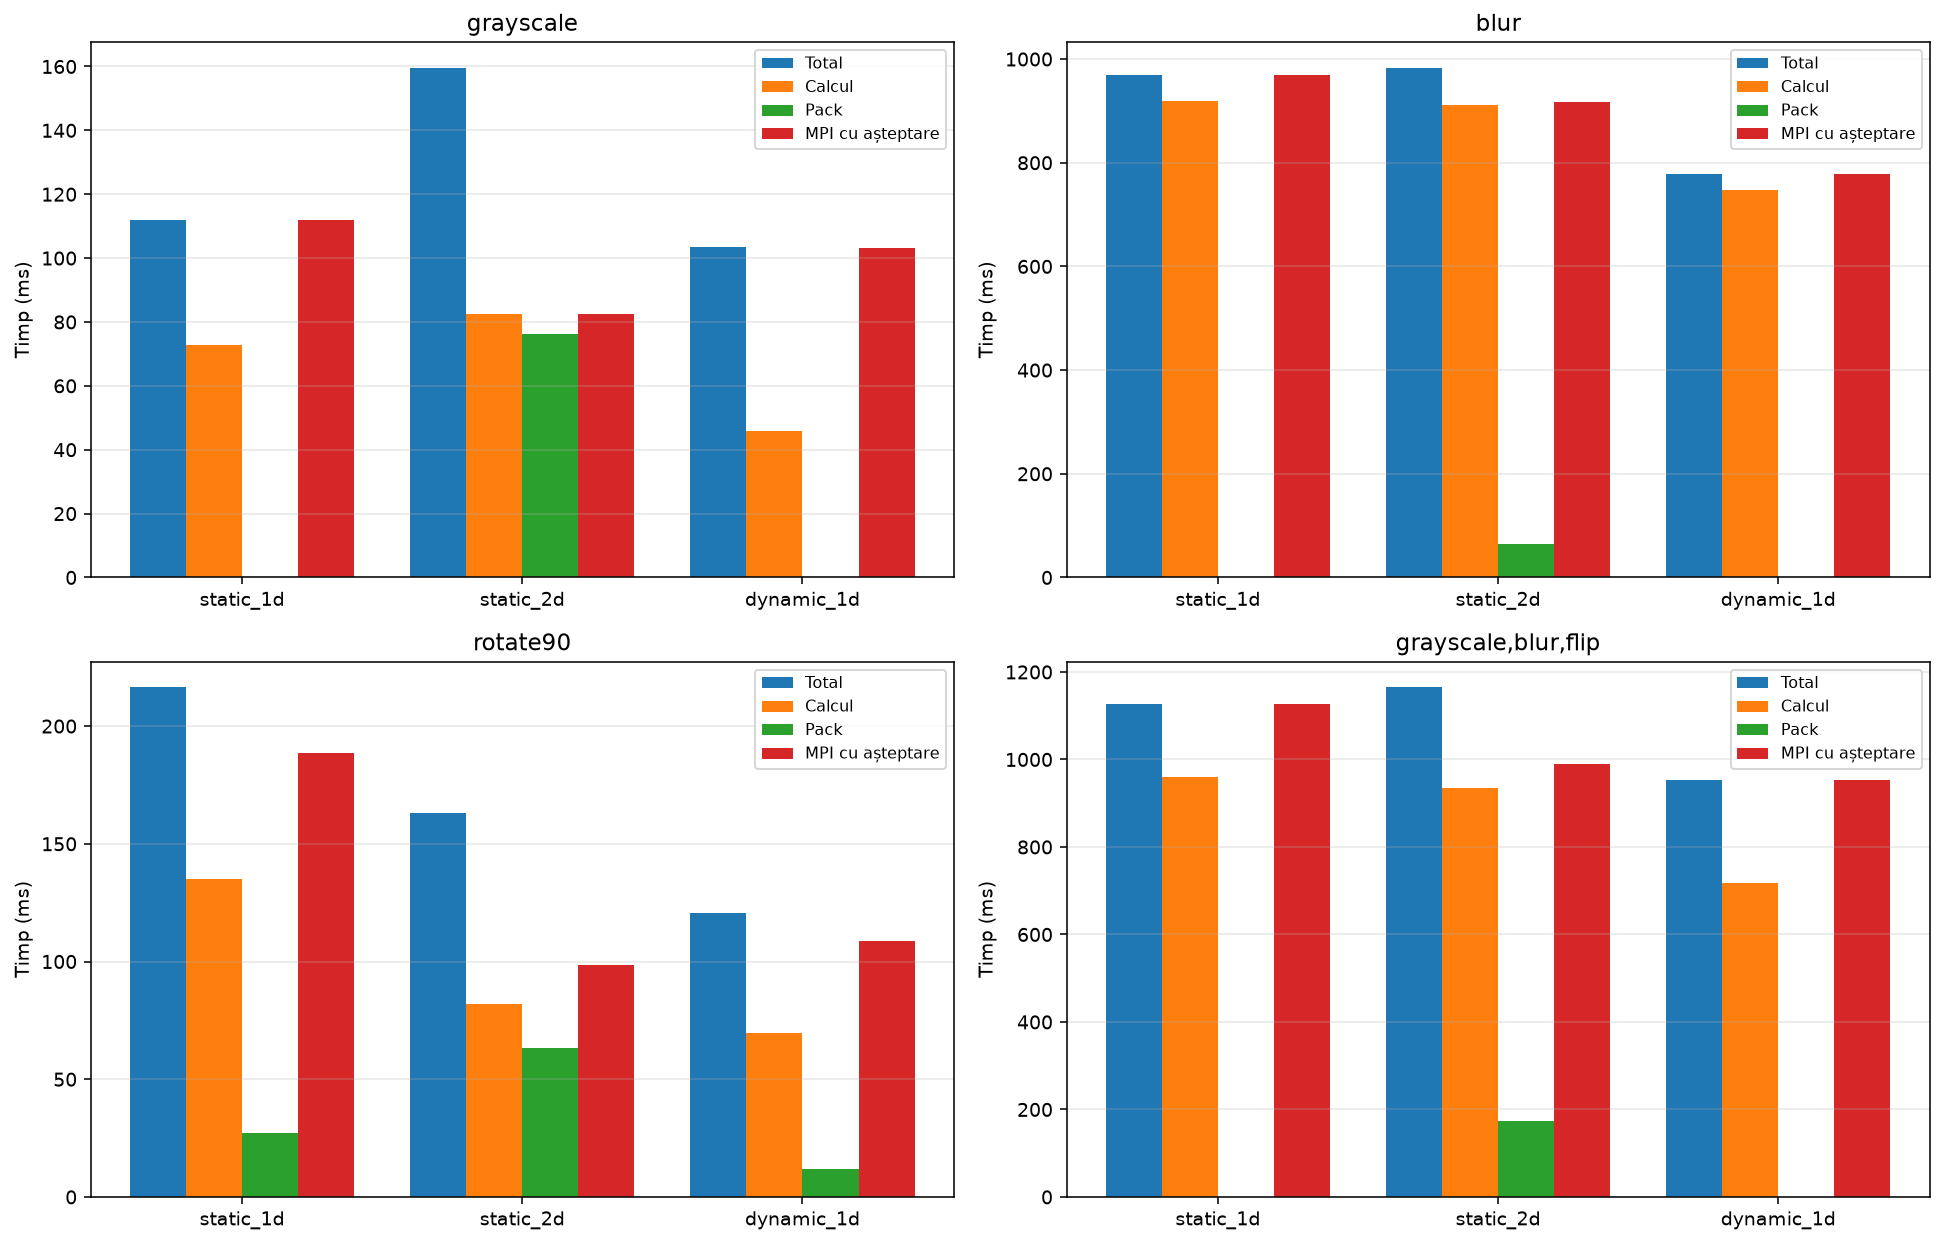
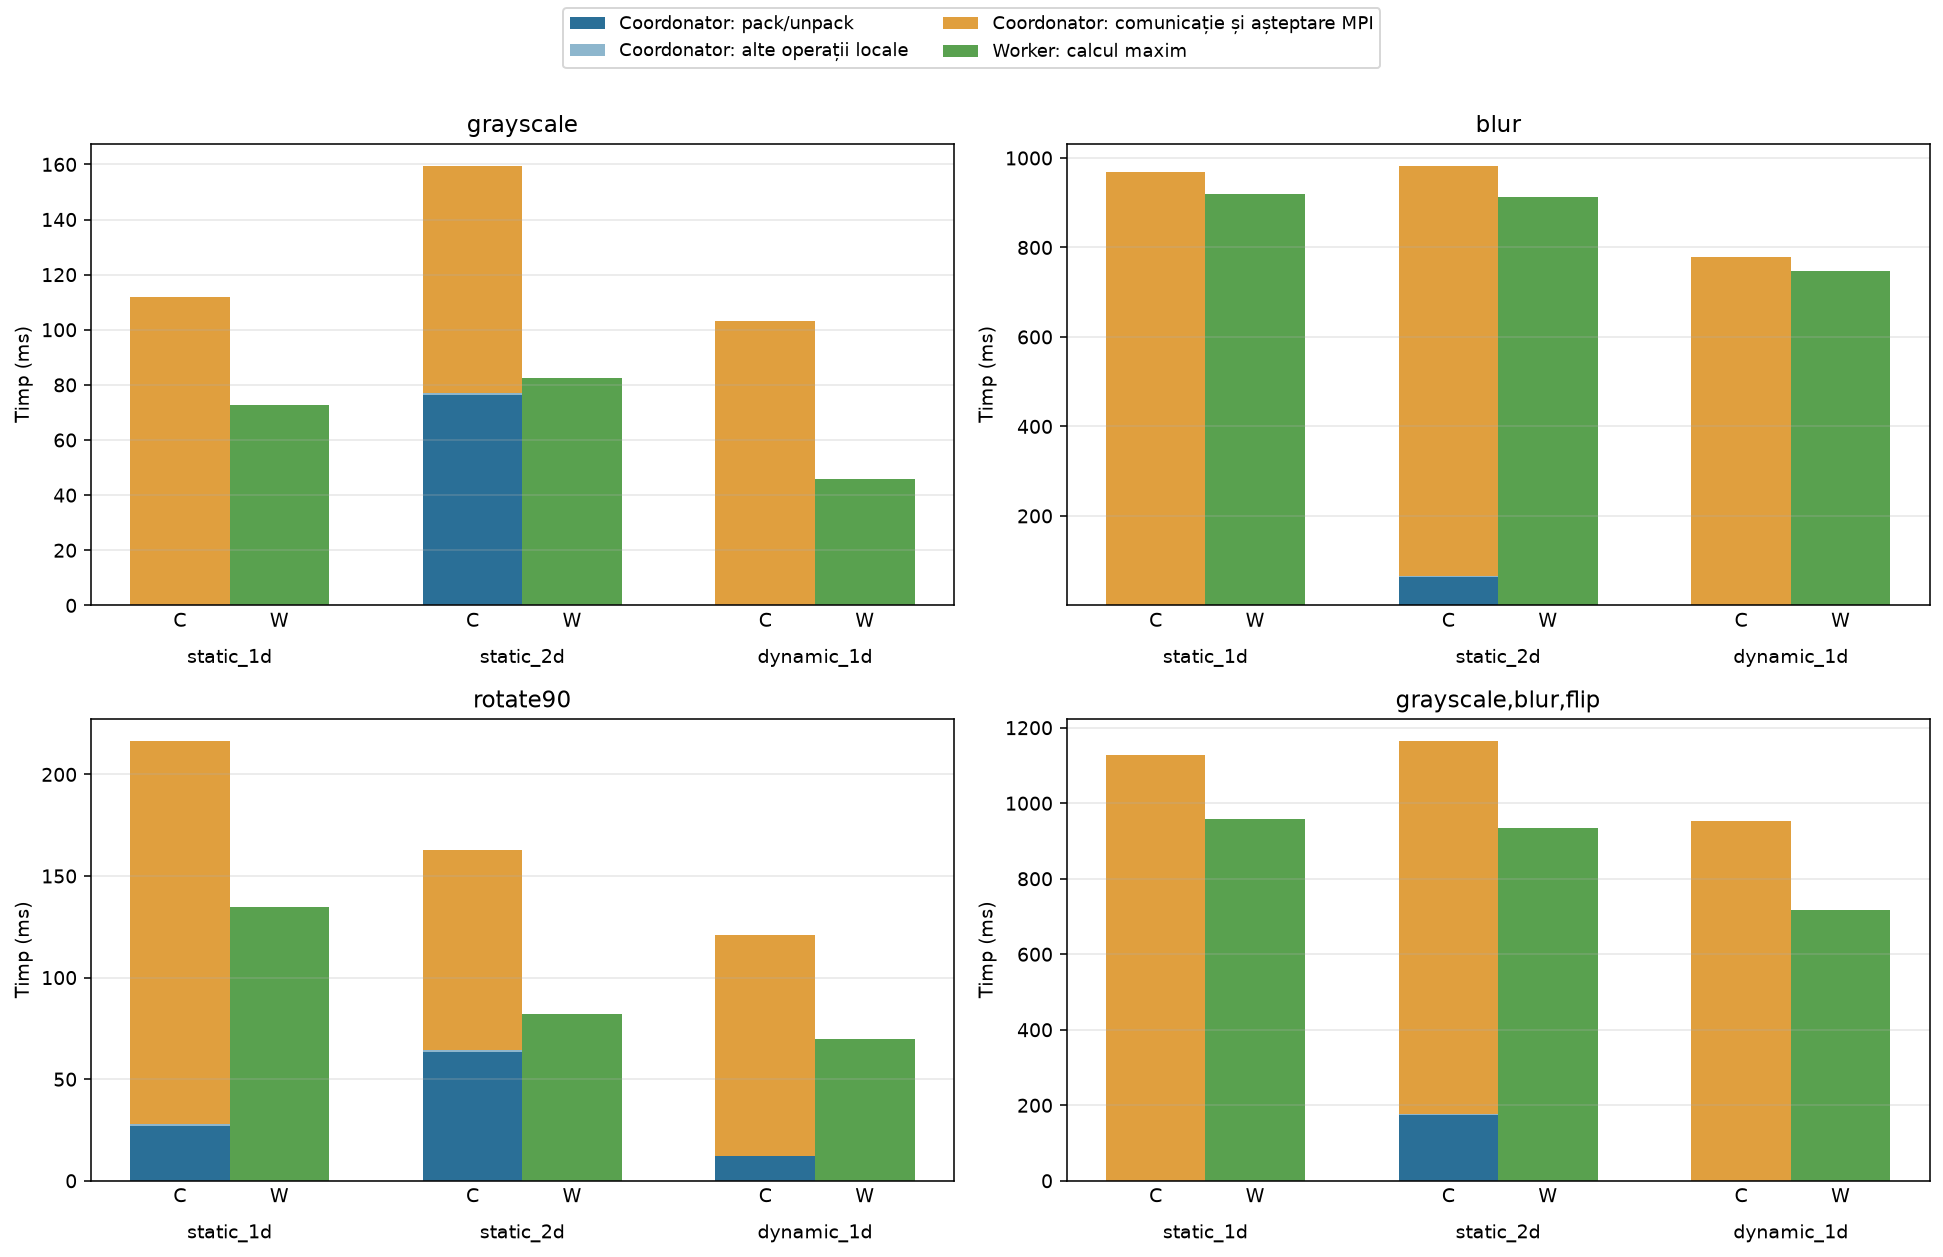
Compare coordinator timing breakdown with worker computation

diff --git a/HW1/benchmark.py b/HW1/benchmark.py
@@ -436,30 +436,54 @@ def generate_detailed_report(results, max_res_label, mid_np, hosts, sample_outpu
     sections.append(figure_to_markdown(fig, "resolution_scaling.png", "Variația cu dimensiunea imaginii"))
 
     sections.extend([
-        "## 3. Ce cost are fiecare strategie?",
+        "## 3. Cum se compară timpii coordonatorului și workerilor?",
         f"Comparăm toate operațiile la `{max_res_label}` și `np={mid_np}`. "
-        "Barele sunt alăturate deoarece timpul apelurilor MPI include așteptarea "
-        "workerilor și se suprapune cu timpul lor de calcul. Pack include și alocarea "
-        "bufferelor temporare. Feliile contigue pot avea timp de pack/unpack zero.",
+        "Fiecare strategie are două coloane, C pentru coordonator și W pentru worker. "
+        "Coloana C împarte timpul total în pack/unpack, alte operații locale și "
+        "comunicație și așteptare MPI. Pack/unpack include alocările bufferelor temporare. "
+        "Alte operații locale reprezintă restul calculat ca `total - MPI - pack/unpack`; "
+        "include pregătirea și planificarea taskurilor, administrarea memoriei din afara "
+        "pack/unpack și costul instrumentării. Transmiterea și colectarea prin apeluri MPI "
+        "intră în segmentul de comunicație și așteptare MPI, care nu reprezintă exclusiv "
+        "timp inactiv. Coloana W arată media maximului "
+        "timpului cumulat de calcul pe un worker, pentru fiecare rulare. "
+        "Nu este suma timpilor tuturor workerilor și nu include așteptarea sau transferurile lor. "
+        "Coloanele C și W se suprapun în timp și nu se adună. "
+        "Împărțirea arată cât timp ocupă munca locală, dar nu dovedește singură "
+        "că mutarea pack/unpack ar reduce timpul total.",
     ])
     fig, axes = plt.subplots(2, 2, figsize=(14, 9))
-    metrics = [("avg_total_s", "Total"), ("avg_comp_s", "Calcul"),
-               ("avg_pack_s", "Pack"), ("avg_comm_s", "MPI cu așteptare")]
     for op, ax in zip(OPS, axes.flat):
         rows = [next(r for r in scaling if r["op"] == op and r["mode"] == mode
                      and r["np"] == mid_np) for mode in MODES]
         x = np.arange(len(MODES))
-        for index, (metric, label) in enumerate(metrics):
-            ax.bar(x + (index - 1.5) * 0.2, [r[metric] * 1000 for r in rows], width=0.2, label=label)
+        packing = np.array([r["avg_pack_s"] * 1000 for r in rows])
+        other = np.array([max(0.0, r["avg_total_s"] - r["avg_comm_s"] - r["avg_pack_s"]) * 1000
+                          for r in rows])
+        waiting = [r["avg_comm_s"] * 1000 for r in rows]
+        width = 0.34
+        ax.bar(x - width / 2, packing, width=width,
+               label="Coordonator: pack/unpack", color="#2A6F97")
+        ax.bar(x - width / 2, other, bottom=packing, width=width,
+               label="Coordonator: alte operații locale", color="#8DB6CD")
+        ax.bar(x - width / 2, waiting, bottom=packing + other, width=width,
+               label="Coordonator: comunicație și așteptare MPI", color="#E09F3E")
+        ax.bar(x + width / 2, [r["avg_comp_s"] * 1000 for r in rows], width=width,
+               label="Worker: calcul maxim", color="#59A14F")
+        ax.set_xticks([position + offset for position in x for offset in [-width / 2, width / 2]],
+                      ["C", "W"] * len(MODES), minor=True)
+        ax.tick_params(axis="x", which="major", pad=22, length=0)
+        ax.tick_params(axis="x", which="minor", length=0)
         ax.set_xticks(x, MODES)
         ax.set(title=op, ylabel="Timp (ms)")
         ax.grid(True, axis="y", alpha=0.3)
-        ax.legend(fontsize=8)
         best = min(rows, key=lambda r: r["avg_total_s"])
         sections.append(f"Pentru `{op}`, la `np={mid_np}`, strategia cu timpul mediu minim "
                         f"este `{best['mode']}`, {best['avg_total_s'] * 1000:.1f} ms.")
-    fig.tight_layout()
-    sections.append(figure_to_markdown(fig, "partition_strategies.png", "Costurile strategiilor"))
+    handles, labels = axes.flat[0].get_legend_handles_labels()
+    fig.legend(handles, labels, loc="upper center", ncol=2, fontsize=9)
+    fig.tight_layout(rect=[0, 0, 1, 0.93])
+    sections.append(figure_to_markdown(fig, "partition_strategies.png", "Timpii coordonatorului și timpul de calcul al workerului"))
 
     checked = [r for r in results if r["mode"] != "seq"]
     failures = [r for r in checked if r["different_pixels"] or r["max_channel_difference"]]

diff --git a/HW1/experimental_study.md b/HW1/experimental_study.md
@@ -58,9 +58,9 @@ Fixăm `np=5` pentru toate strategiile paralele și variem numărul de pixeli. A
 
 ![Variația cu dimensiunea imaginii](benchmark_figures/resolution_scaling.png)
 
-## 3. Ce cost are fiecare strategie?
+## 3. Cum se compară timpii coordonatorului și workerilor?
 
-Comparăm toate operațiile la `8MP` și `np=5`. Barele sunt alăturate deoarece timpul apelurilor MPI include așteptarea workerilor și se suprapune cu timpul lor de calcul. Pack include și alocarea bufferelor temporare. Feliile contigue pot avea timp de pack/unpack zero.
+Comparăm toate operațiile la `8MP` și `np=5`. Fiecare strategie are două coloane, C pentru coordonator și W pentru worker. Coloana C împarte timpul total în pack/unpack, alte operații locale și comunicație și așteptare MPI. Pack/unpack include alocările bufferelor temporare. Alte operații locale reprezintă restul calculat ca `total - MPI - pack/unpack`; include pregătirea și planificarea taskurilor, administrarea memoriei din afara pack/unpack și costul instrumentării. Transmiterea și colectarea prin apeluri MPI intră în segmentul de comunicație și așteptare MPI, care nu reprezintă exclusiv timp inactiv. Coloana W arată media maximului timpului cumulat de calcul pe un worker, pentru fiecare rulare. Nu este suma timpilor tuturor workerilor și nu include așteptarea sau transferurile lor. Coloanele C și W se suprapun în timp și nu se adună. Împărțirea arată cât timp ocupă munca locală, dar nu dovedește singură că mutarea pack/unpack ar reduce timpul total.
 
 Pentru `grayscale`, la `np=5`, strategia cu timpul mediu minim este `dynamic_1d`, 103.4 ms.
 
@@ -70,7 +70,7 @@ Pentru `rotate90`, la `np=5`, strategia cu timpul mediu minim este `dynamic_1d`,
 
 Pentru `grayscale,blur,flip`, la `np=5`, strategia cu timpul mediu minim este `dynamic_1d`, 952.3 ms.
 
-![Costurile strategiilor](benchmark_figures/partition_strategies.png)
+![Timpii coordonatorului și timpul de calcul al workerului](benchmark_figures/partition_strategies.png)
 
 ## 4. Rezultatul paralel este corect?
 

diff --git a/HW1/README.md b/HW1/README.md
@@ -155,3 +155,15 @@ Verificările generatorului se rulează astfel:
 ```bash
 uv run --with numpy --with matplotlib python -m unittest -v test_benchmark.py
 ```
+
+Graficul strategiilor are două coloane pentru fiecare strategie. Coloana C
+arată timpul coordonatorului în trei segmente: pack/unpack cu alocările
+asociate, alte operații locale și comunicație și așteptare MPI. Restul local
+se calculează ca `avg_total_s - avg_comm_s - avg_pack_s`; include pregătirea
+și planificarea taskurilor, administrarea memoriei din afara pack/unpack și
+costul instrumentării. Transmiterea și colectarea prin apeluri MPI intră în
+segmentul MPI. Cele trei segmente formează timpul total, în limita preciziei
+măsurătorilor.
+Coloana W arată media maximului timpului cumulat de calcul pe un worker
+din fiecare rulare. Nu include timpii de așteptare și transfer ai workerului.
+Coloanele C și W se suprapun în timp și nu se adună.
